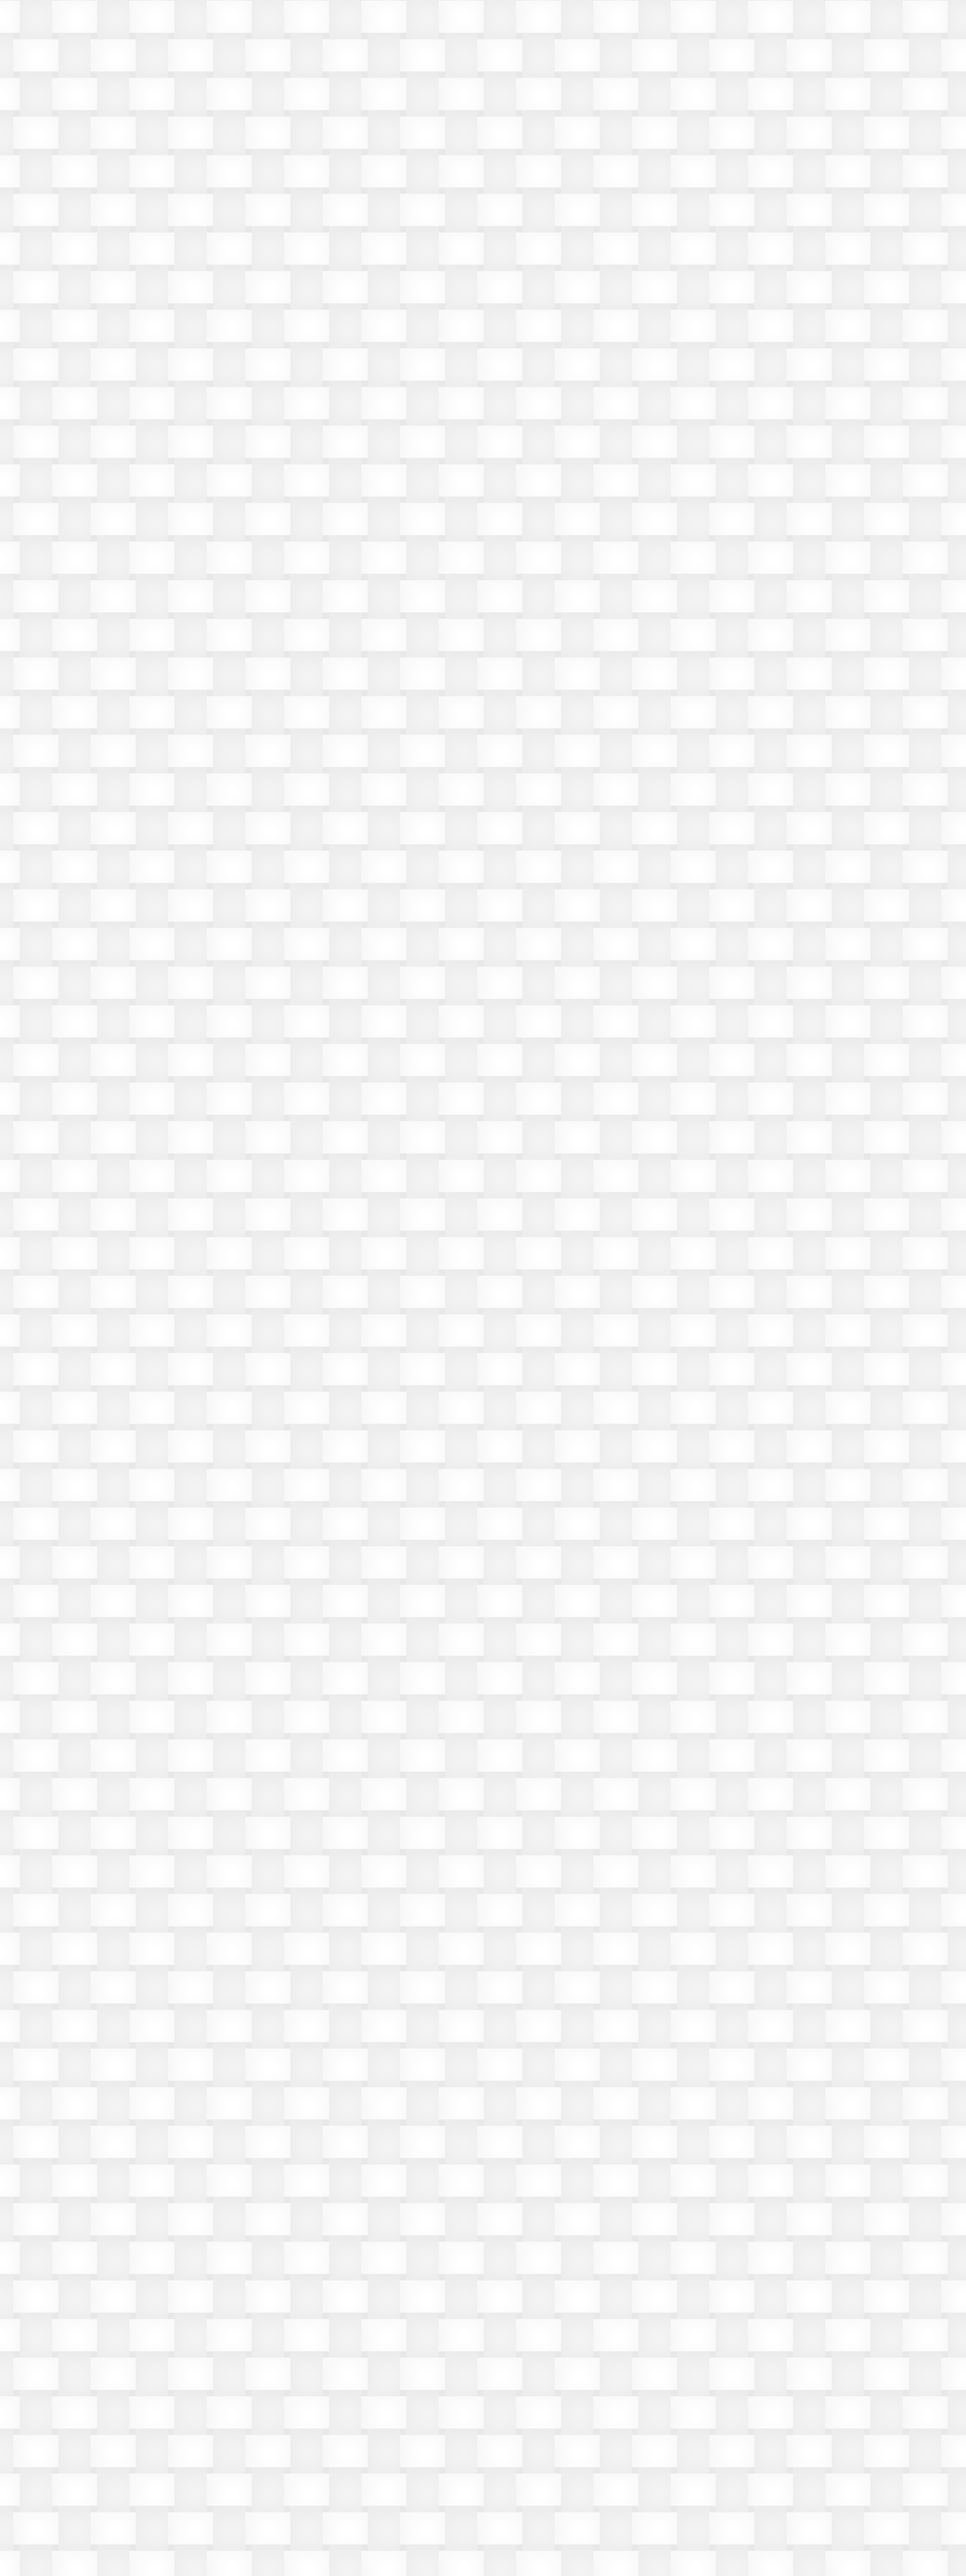
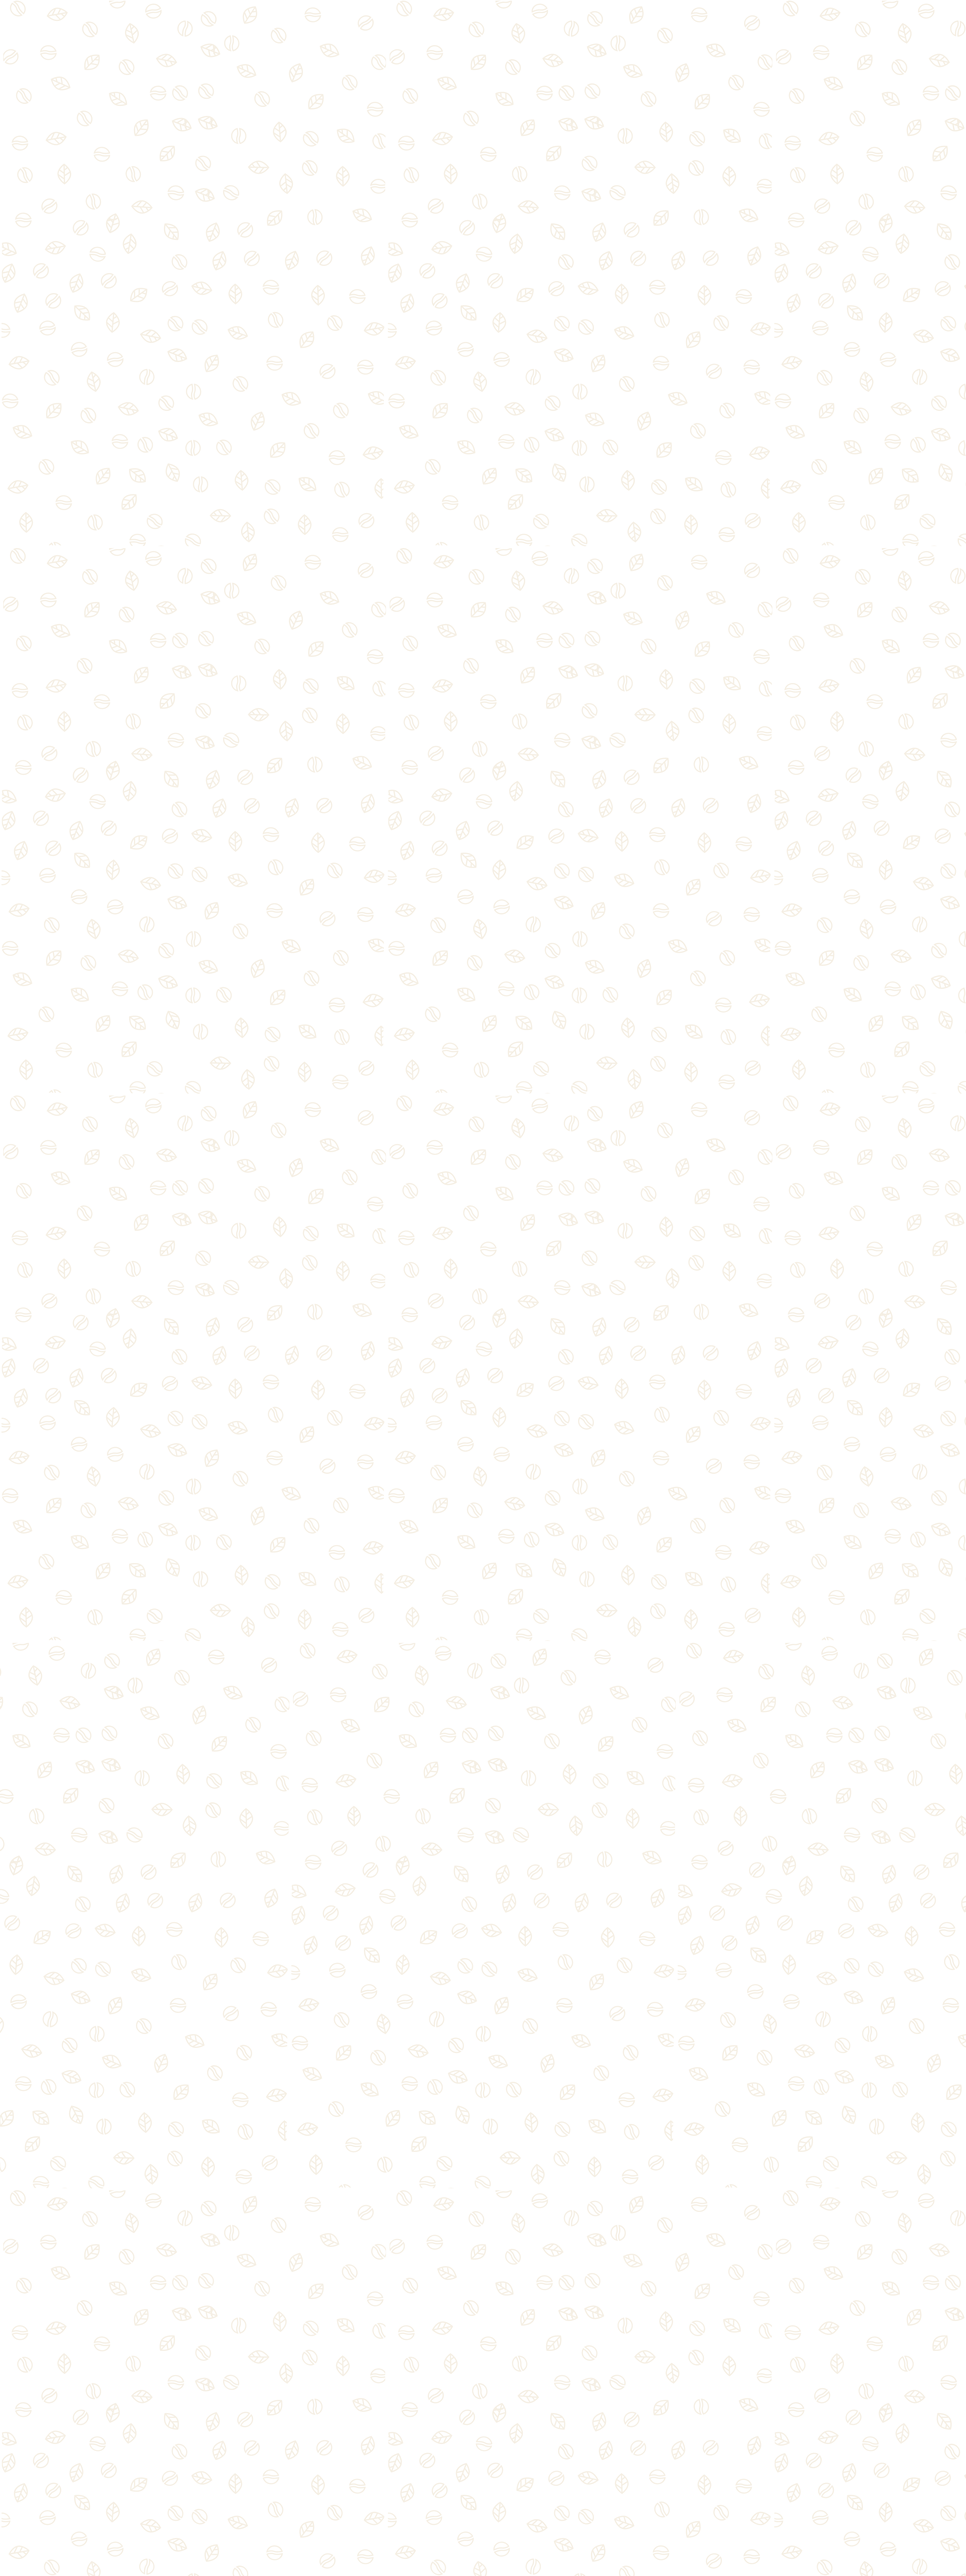
C03 - Alteração do background

diff --git a/style.css b/style.css
@@ -1,12 +1,12 @@
 body {
-  background-color: rgb(253, 251, 251);
-  margin: 0;
+  background-image: url(background.png);
+  margin: 0%;
 }
 
 #cabecalho {
   top: 0;
   left: 0;
-  right: 0;
+  right: 0; 
   width: 100%;
   font-size: xx-large;
   background-color: rgb(5, 248, 5);
